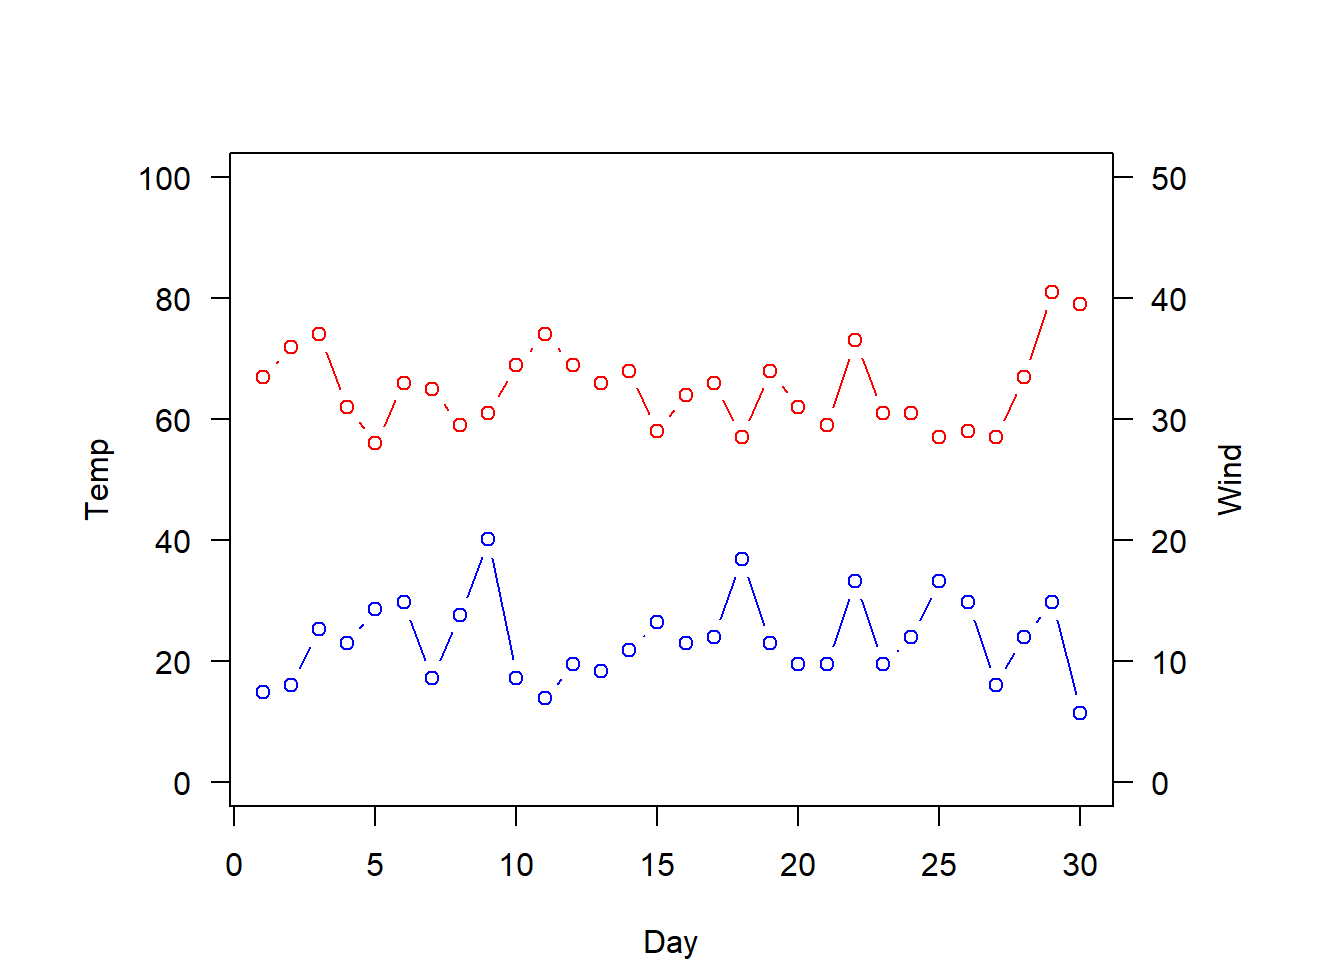
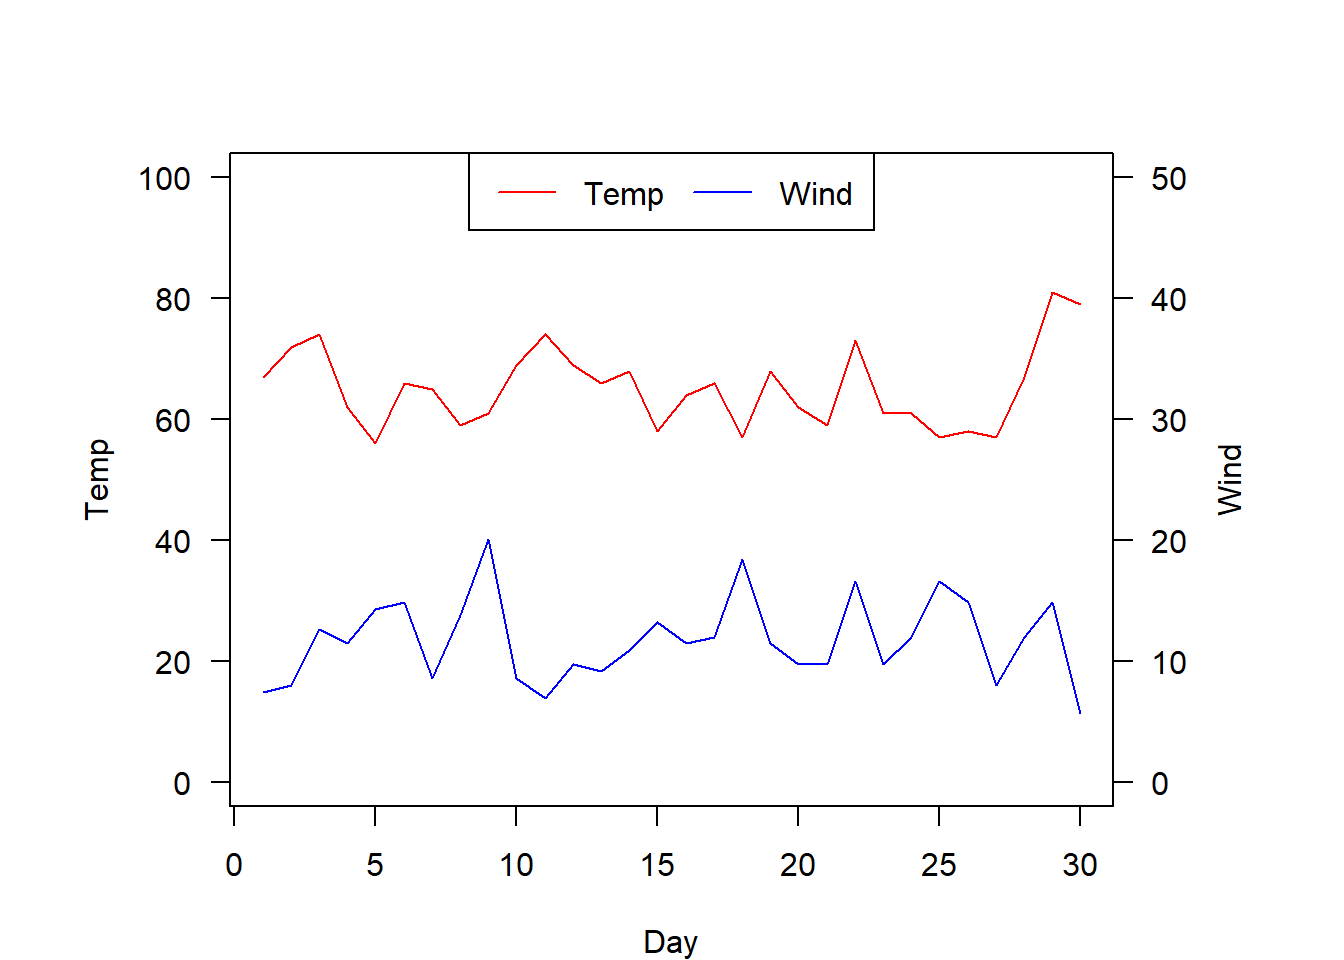
.

diff --git a/docs/cach-ve-do-thi-hai-truc-tung.html b/docs/cach-ve-do-thi-hai-truc-tung.html
@@ -473,7 +473,8 @@ pre > code.sourceCode > span > a:first-child::before { text-decoration: underlin
     <h2 id="toc-title">Mục lục</h2>
    
   <ul>
-  <li><a href="#cau-1" id="toc-cau-1" class="nav-link active" data-scroll-target="#cau-1"><strong>Câu 1</strong></a></li>
+  <li><a href="#cau-1" id="toc-cau-1" class="nav-link active" data-scroll-target="#cau-1"><strong>Câu 1 (Base R)</strong></a></li>
+  <li><a href="#cau-1" id="toc-cau-1" class="nav-link" data-scroll-target="#cau-1"><strong>Câu 2 (<code>ggplot2</code>)</strong></a></li>
   </ul>
 </nav>
     </div>
@@ -501,7 +502,7 @@ pre > code.sourceCode > span > a:first-child::before { text-decoration: underlin
 
 
 <section id="cau-1" class="level2">
-<h2 class="anchored" data-anchor-id="cau-1"><strong>Câu 1</strong></h2>
+<h2 class="anchored" data-anchor-id="cau-1"><strong>Câu 1 (Base R)</strong></h2>
 <p>Bạn có dữ liệu như sau.</p>
 <div class="cell">
 <div class="code-copy-outer-scaffold"><div class="sourceCode cell-code" id="cb1"><pre class="sourceCode r code-with-copy"><code class="sourceCode r"><span id="cb1-1"><a href="#cb1-1" aria-hidden="true" tabindex="-1"></a>df <span class="ot">&lt;-</span> airquality[<span class="dv">1</span><span class="sc">:</span><span class="dv">30</span>, ]</span>
@@ -540,7 +541,7 @@ pre > code.sourceCode > span > a:first-child::before { text-decoration: underlin
 30   115     223  5.7   79     5  30</code></pre>
 </div>
 </div>
-<p>Bạn vẽ đồ thị hai trục tung (Y1: <code>Temp</code>, Y2: <code>Wind</code>, X: <code>Day</code>).</p>
+<p>Bạn vẽ đồ thị hai trục tung (Y1: <code>Temp</code>, Y2: <code>Wind</code>, X: <code>Day</code>) bằng các lệnh Base R Graphics (lệnh <code>plot()</code> như thông thường).</p>
 <div class="cell">
 <div class="cell-output-display">
 <div>
@@ -571,7 +572,7 @@ div.yes123 pre.r { background-color:#F1F3F5; font-size: 16px; }
 <div class="code-copy-outer-scaffold"><div class="sourceCode cell-code" id="cb3"><pre class="sourceCode r code-with-copy"><code class="sourceCode r"><span id="cb3-1"><a href="#cb3-1" aria-hidden="true" tabindex="-1"></a><span class="fu">par</span>(<span class="at">mar =</span> <span class="fu">c</span>(<span class="dv">4</span>,<span class="dv">6</span>,<span class="dv">4</span>,<span class="dv">6</span>))</span>
 <span id="cb3-2"><a href="#cb3-2" aria-hidden="true" tabindex="-1"></a></span>
 <span id="cb3-3"><a href="#cb3-3" aria-hidden="true" tabindex="-1"></a><span class="fu">plot</span>(Temp <span class="sc">~</span> Day,</span>
-<span id="cb3-4"><a href="#cb3-4" aria-hidden="true" tabindex="-1"></a>     <span class="at">type =</span> <span class="st">"b"</span>,</span>
+<span id="cb3-4"><a href="#cb3-4" aria-hidden="true" tabindex="-1"></a>     <span class="at">type =</span> <span class="st">"l"</span>,</span>
 <span id="cb3-5"><a href="#cb3-5" aria-hidden="true" tabindex="-1"></a>     <span class="at">col =</span> <span class="st">"red"</span>,</span>
 <span id="cb3-6"><a href="#cb3-6" aria-hidden="true" tabindex="-1"></a>     <span class="at">ylim =</span> <span class="fu">c</span>(<span class="dv">0</span>, <span class="dv">100</span>),</span>
 <span id="cb3-7"><a href="#cb3-7" aria-hidden="true" tabindex="-1"></a>     <span class="at">las =</span> <span class="dv">1</span>,</span>
@@ -580,8 +581,8 @@ div.yes123 pre.r { background-color:#F1F3F5; font-size: 16px; }
 <span id="cb3-10"><a href="#cb3-10" aria-hidden="true" tabindex="-1"></a><span class="fu">par</span>(<span class="at">new =</span> T)</span>
 <span id="cb3-11"><a href="#cb3-11" aria-hidden="true" tabindex="-1"></a></span>
 <span id="cb3-12"><a href="#cb3-12" aria-hidden="true" tabindex="-1"></a><span class="fu">plot</span>(Wind <span class="sc">~</span> Day,</span>
-<span id="cb3-13"><a href="#cb3-13" aria-hidden="true" tabindex="-1"></a>     <span class="at">type =</span> <span class="st">"b"</span>,</span>
-<span id="cb3-14"><a href="#cb3-14" aria-hidden="true" tabindex="-1"></a>     <span class="at">axes =</span> <span class="cn">FALSE</span>,</span>
+<span id="cb3-13"><a href="#cb3-13" aria-hidden="true" tabindex="-1"></a>     <span class="at">type =</span> <span class="st">"l"</span>,</span>
+<span id="cb3-14"><a href="#cb3-14" aria-hidden="true" tabindex="-1"></a>      <span class="at">axes =</span> <span class="cn">FALSE</span>,</span>
 <span id="cb3-15"><a href="#cb3-15" aria-hidden="true" tabindex="-1"></a>     <span class="at">col =</span> <span class="st">"blue"</span>,</span>
 <span id="cb3-16"><a href="#cb3-16" aria-hidden="true" tabindex="-1"></a>     <span class="at">data =</span> df,</span>
 <span id="cb3-17"><a href="#cb3-17" aria-hidden="true" tabindex="-1"></a>     <span class="at">ylim =</span> <span class="fu">c</span>(<span class="dv">0</span>,<span class="dv">50</span>),</span>
@@ -593,7 +594,14 @@ div.yes123 pre.r { background-color:#F1F3F5; font-size: 16px; }
 <span id="cb3-23"><a href="#cb3-23" aria-hidden="true" tabindex="-1"></a></span>
 <span id="cb3-24"><a href="#cb3-24" aria-hidden="true" tabindex="-1"></a><span class="fu">mtext</span>(<span class="at">text =</span> <span class="st">"Wind"</span>,</span>
 <span id="cb3-25"><a href="#cb3-25" aria-hidden="true" tabindex="-1"></a>      <span class="at">side =</span> <span class="dv">4</span>,</span>
-<span id="cb3-26"><a href="#cb3-26" aria-hidden="true" tabindex="-1"></a>      <span class="at">line =</span> <span class="fl">2.5</span>)</span></code></pre></div><button title="Copy to Clipboard" class="code-copy-button"><i class="bi"></i></button></div>
+<span id="cb3-26"><a href="#cb3-26" aria-hidden="true" tabindex="-1"></a>      <span class="at">line =</span> <span class="fl">2.5</span>)</span>
+<span id="cb3-27"><a href="#cb3-27" aria-hidden="true" tabindex="-1"></a></span>
+<span id="cb3-28"><a href="#cb3-28" aria-hidden="true" tabindex="-1"></a><span class="fu">legend</span>(<span class="at">x =</span> <span class="st">"top"</span>,</span>
+<span id="cb3-29"><a href="#cb3-29" aria-hidden="true" tabindex="-1"></a>       <span class="at">y =</span> <span class="cn">NULL</span>,</span>
+<span id="cb3-30"><a href="#cb3-30" aria-hidden="true" tabindex="-1"></a>       <span class="at">legend =</span> <span class="fu">c</span>(<span class="st">"Temp"</span>, <span class="st">"Wind"</span>),</span>
+<span id="cb3-31"><a href="#cb3-31" aria-hidden="true" tabindex="-1"></a>       <span class="at">col =</span> <span class="fu">c</span>(<span class="st">"red"</span>, <span class="st">"blue"</span>),</span>
+<span id="cb3-32"><a href="#cb3-32" aria-hidden="true" tabindex="-1"></a>       <span class="at">horiz =</span> T,</span>
+<span id="cb3-33"><a href="#cb3-33" aria-hidden="true" tabindex="-1"></a>       <span class="at">lty =</span> <span class="dv">1</span>)</span></code></pre></div><button title="Copy to Clipboard" class="code-copy-button"><i class="bi"></i></button></div>
 <div class="cell-output-display">
 <div>
 <figure class="figure">
@@ -606,6 +614,88 @@ div.yes123 pre.r { background-color:#F1F3F5; font-size: 16px; }
 </div>
 </div>
 </div>
+</section>
+<section id="cau-1" class="level2">
+<h2 class="anchored" data-anchor-id="cau-1"><strong>Câu 2 (<code>ggplot2</code>)</strong></h2>
+<p>Từ bộ dữ liệu <code>df</code> ở trong câu 1, bạn hãy vẽ bằng package <code>ggplot2</code> để được hình sau.</p>
+<div class="cell">
+<div class="cell-output-display">
+<div>
+<figure class="figure">
+<p><img src="cach-ve-do-thi-hai-truc-tung_files/figure-html/unnamed-chunk-4-1.png" class="img-fluid figure-img" width="672"></p>
+</figure>
+</div>
+</div>
+</div>
+<div class="callout callout-style-default callout-tip callout-titled" title="Đáp án">
+<div class="callout-header d-flex align-content-center collapsed" data-bs-toggle="collapse" data-bs-target=".callout-2-contents" aria-controls="callout-2" aria-expanded="false" aria-label="Toggle callout">
+<div class="callout-icon-container">
+<i class="callout-icon"></i>
+</div>
+<div class="callout-title-container flex-fill">
+<span class="screen-reader-only">Tip</span>Đáp án
+</div>
+<div class="callout-btn-toggle d-inline-block border-0 py-1 ps-1 pe-0 float-end"><i class="callout-toggle"></i></div>
+</div>
+<div id="callout-2" class="callout-2-contents callout-collapse collapse">
+<div class="callout-body-container callout-body">
+<style>
+div.yes123 pre { background-color:#fff2cc; font-size: 16px; }
+div.yes123 pre.r { background-color:#F1F3F5; font-size: 16px; }
+</style>
+<div class="yes123">
+<p>Vì <code>ggplot2</code> không thuận tiện để vẽ hai trục tung (theo tìm hiểu thì tác giả package không recomment hướng này mà muốn tách ra thành từng đồ thị đơn để không bị nhầm việc đọc kết quả), tuy vậy ta vẫn có tham số để hỗ trợ vẽ hai trục tung (dual-Y axis) bằng lệnh <code>sec_axis()</code>, bản chất là vẽ một trục Y bên phải, ta sẽ cần tách riêng hai linechart và tính <code>scale_factor</code> cho phù hợp. Tóm lại, muốn vẽ hai trục tung chuẩn nhất là ta vẽ bằng Base R như câu 1.</p>
+<p>Ngoài ra vị trí legend trong <code>ggplot2</code> ở “top”, thì nằm ngoài đồ thị, còn Base R thì nằm trong đồ thị, ta có thể tinh chỉnh thủ công cũng được.</p>
+<div class="cell">
+<div class="code-copy-outer-scaffold"><div class="sourceCode cell-code" id="cb4"><pre class="sourceCode r code-with-copy"><code class="sourceCode r"><span id="cb4-1"><a href="#cb4-1" aria-hidden="true" tabindex="-1"></a><span class="fu">library</span>(ggplot2)</span>
+<span id="cb4-2"><a href="#cb4-2" aria-hidden="true" tabindex="-1"></a><span class="co"># package ggplot2 khi vẽ linechart sẽ tự động xếp đúng thứ tự từ nhỏ đến lớn ở trục X, không cần phải order như cách vẽ ở Base R, việc này có thể tiện lợi, nhưng cũng làm ta "chủ quan" không rõ cách vẽ của linechart.</span></span>
+<span id="cb4-3"><a href="#cb4-3" aria-hidden="true" tabindex="-1"></a></span>
+<span id="cb4-4"><a href="#cb4-4" aria-hidden="true" tabindex="-1"></a>scale_factor <span class="ot">&lt;-</span> <span class="dv">2</span></span>
+<span id="cb4-5"><a href="#cb4-5" aria-hidden="true" tabindex="-1"></a></span>
+<span id="cb4-6"><a href="#cb4-6" aria-hidden="true" tabindex="-1"></a><span class="fu">ggplot</span>() <span class="sc">+</span></span>
+<span id="cb4-7"><a href="#cb4-7" aria-hidden="true" tabindex="-1"></a>  </span>
+<span id="cb4-8"><a href="#cb4-8" aria-hidden="true" tabindex="-1"></a>  <span class="fu">geom_line</span>(<span class="at">data =</span> df,</span>
+<span id="cb4-9"><a href="#cb4-9" aria-hidden="true" tabindex="-1"></a>       </span>
+<span id="cb4-10"><a href="#cb4-10" aria-hidden="true" tabindex="-1"></a>       <span class="at">mapping =</span> <span class="fu">aes</span>(<span class="at">x =</span> Day,</span>
+<span id="cb4-11"><a href="#cb4-11" aria-hidden="true" tabindex="-1"></a>                     <span class="at">y =</span> Temp,</span>
+<span id="cb4-12"><a href="#cb4-12" aria-hidden="true" tabindex="-1"></a>                     <span class="at">color =</span> <span class="st">"Temp"</span>),</span>
+<span id="cb4-13"><a href="#cb4-13" aria-hidden="true" tabindex="-1"></a>       </span>
+<span id="cb4-14"><a href="#cb4-14" aria-hidden="true" tabindex="-1"></a>       ) <span class="sc">+</span></span>
+<span id="cb4-15"><a href="#cb4-15" aria-hidden="true" tabindex="-1"></a>  </span>
+<span id="cb4-16"><a href="#cb4-16" aria-hidden="true" tabindex="-1"></a>  <span class="fu">geom_line</span>(<span class="at">data =</span> df,</span>
+<span id="cb4-17"><a href="#cb4-17" aria-hidden="true" tabindex="-1"></a>            <span class="at">mapping =</span> <span class="fu">aes</span>(<span class="at">x =</span> Day,</span>
+<span id="cb4-18"><a href="#cb4-18" aria-hidden="true" tabindex="-1"></a>                          <span class="at">y =</span> Wind <span class="sc">*</span> <span class="dv">2</span>,</span>
+<span id="cb4-19"><a href="#cb4-19" aria-hidden="true" tabindex="-1"></a>                           <span class="at">color =</span> <span class="st">"Wind"</span>),</span>
+<span id="cb4-20"><a href="#cb4-20" aria-hidden="true" tabindex="-1"></a>           ) <span class="sc">+</span></span>
+<span id="cb4-21"><a href="#cb4-21" aria-hidden="true" tabindex="-1"></a>  </span>
+<span id="cb4-22"><a href="#cb4-22" aria-hidden="true" tabindex="-1"></a>  <span class="fu">scale_y_continuous</span>(<span class="at">name =</span> <span class="st">"Temp"</span>,</span>
+<span id="cb4-23"><a href="#cb4-23" aria-hidden="true" tabindex="-1"></a>                     <span class="at">limits =</span> <span class="fu">c</span>(<span class="dv">0</span>, <span class="dv">100</span>),</span>
+<span id="cb4-24"><a href="#cb4-24" aria-hidden="true" tabindex="-1"></a>                     <span class="at">sec.axis =</span> <span class="fu">sec_axis</span>(</span>
+<span id="cb4-25"><a href="#cb4-25" aria-hidden="true" tabindex="-1"></a>                       <span class="sc">~</span> . <span class="sc">/</span> <span class="dv">2</span>,</span>
+<span id="cb4-26"><a href="#cb4-26" aria-hidden="true" tabindex="-1"></a>                       <span class="at">name =</span> <span class="st">"Wind"</span></span>
+<span id="cb4-27"><a href="#cb4-27" aria-hidden="true" tabindex="-1"></a>                       )</span>
+<span id="cb4-28"><a href="#cb4-28" aria-hidden="true" tabindex="-1"></a>                     ) <span class="sc">+</span></span>
+<span id="cb4-29"><a href="#cb4-29" aria-hidden="true" tabindex="-1"></a>  <span class="fu">theme_bw</span>(<span class="at">base_size =</span> <span class="dv">16</span>) <span class="sc">+</span></span>
+<span id="cb4-30"><a href="#cb4-30" aria-hidden="true" tabindex="-1"></a>  </span>
+<span id="cb4-31"><a href="#cb4-31" aria-hidden="true" tabindex="-1"></a>  <span class="fu">scale_color_manual</span>(<span class="at">values =</span> <span class="fu">c</span>(<span class="st">"Temp"</span> <span class="ot">=</span> <span class="st">"red"</span>,</span>
+<span id="cb4-32"><a href="#cb4-32" aria-hidden="true" tabindex="-1"></a>                               <span class="st">"Wind"</span> <span class="ot">=</span> <span class="st">"blue"</span>),</span>
+<span id="cb4-33"><a href="#cb4-33" aria-hidden="true" tabindex="-1"></a>                     <span class="at">name =</span> <span class="st">""</span>) <span class="sc">+</span></span>
+<span id="cb4-34"><a href="#cb4-34" aria-hidden="true" tabindex="-1"></a>  </span>
+<span id="cb4-35"><a href="#cb4-35" aria-hidden="true" tabindex="-1"></a>  <span class="fu">theme</span>(<span class="at">legend.position =</span> <span class="st">"top"</span>)</span></code></pre></div><button title="Copy to Clipboard" class="code-copy-button"><i class="bi"></i></button></div>
+<div class="cell-output-display">
+<div>
+<figure class="figure">
+<p><img src="cach-ve-do-thi-hai-truc-tung_files/figure-html/unnamed-chunk-5-1.png" class="img-fluid figure-img" width="672"></p>
+</figure>
+</div>
+</div>
+</div>
+</div>
+</div>
+</div>
+</div>
+<p>Ngoài ra, ta có thể vẽ hai trục tung sử dụng package <code>lattice</code>.</p>
+<p><a href="https://latticeextra.r-forge.r-project.org/man/doubleYScale.html" class="uri">https://latticeextra.r-forge.r-project.org/man/doubleYScale.html</a></p>
 
 
 </section>

diff --git a/docs/cach-xem-source-va-edit-function.html b/docs/cach-xem-source-va-edit-function.html
@@ -529,7 +529,7 @@ Ferrari Dino   19.7   6 145.0 175 3.62 2.770 15.50  0  1    5    6</code></pre>
 <div class="cell-output cell-output-stdout">
 <pre><code>function (x, ...) 
 UseMethod("subset")
-&lt;bytecode: 0x0000024032862728&gt;
+&lt;bytecode: 0x000001806026a728&gt;
 &lt;environment: namespace:base&gt;</code></pre>
 </div>
 </div>
@@ -570,7 +570,7 @@ see '?methods' for accessing help and source code</code></pre>
     }
     x[r, vars, drop = drop]
 }
-&lt;bytecode: 0x0000024033023078&gt;
+&lt;bytecode: 0x0000018060a23078&gt;
 &lt;environment: namespace:base&gt;</code></pre>
 </div>
 </div>
@@ -626,7 +626,7 @@ Ferrari Dino   19.7   6 145.0 175 3.62 2.770 15.50  0  1    5    6</code></pre>
 {
     UseMethod("qqPlot")
 }
-&lt;bytecode: 0x000002403174f180&gt;
+&lt;bytecode: 0x000001805f14d180&gt;
 &lt;environment: namespace:car&gt;</code></pre>
 </div>
 <div class="code-copy-outer-scaffold"><div class="sourceCode cell-code" id="cb16"><pre class="sourceCode r code-with-copy"><code class="sourceCode r"><span id="cb16-1"><a href="#cb16-1" aria-hidden="true" tabindex="-1"></a><span class="fu">methods</span>(<span class="st">"qqPlot"</span>)</span></code></pre></div><button title="Copy to Clipboard" class="code-copy-button"><i class="bi"></i></button></div>

diff --git a/docs/index.html b/docs/index.html
@@ -465,7 +465,7 @@ ul.task-list li input[type="checkbox"] {
     <div>
     <div class="quarto-title-meta-heading">Published</div>
     <div class="quarto-title-meta-contents">
-      <p class="date">Cập nhật: 2026 August 21</p>
+      <p class="date">Cập nhật: 2026 August 22</p>
     </div>
   </div>
   
